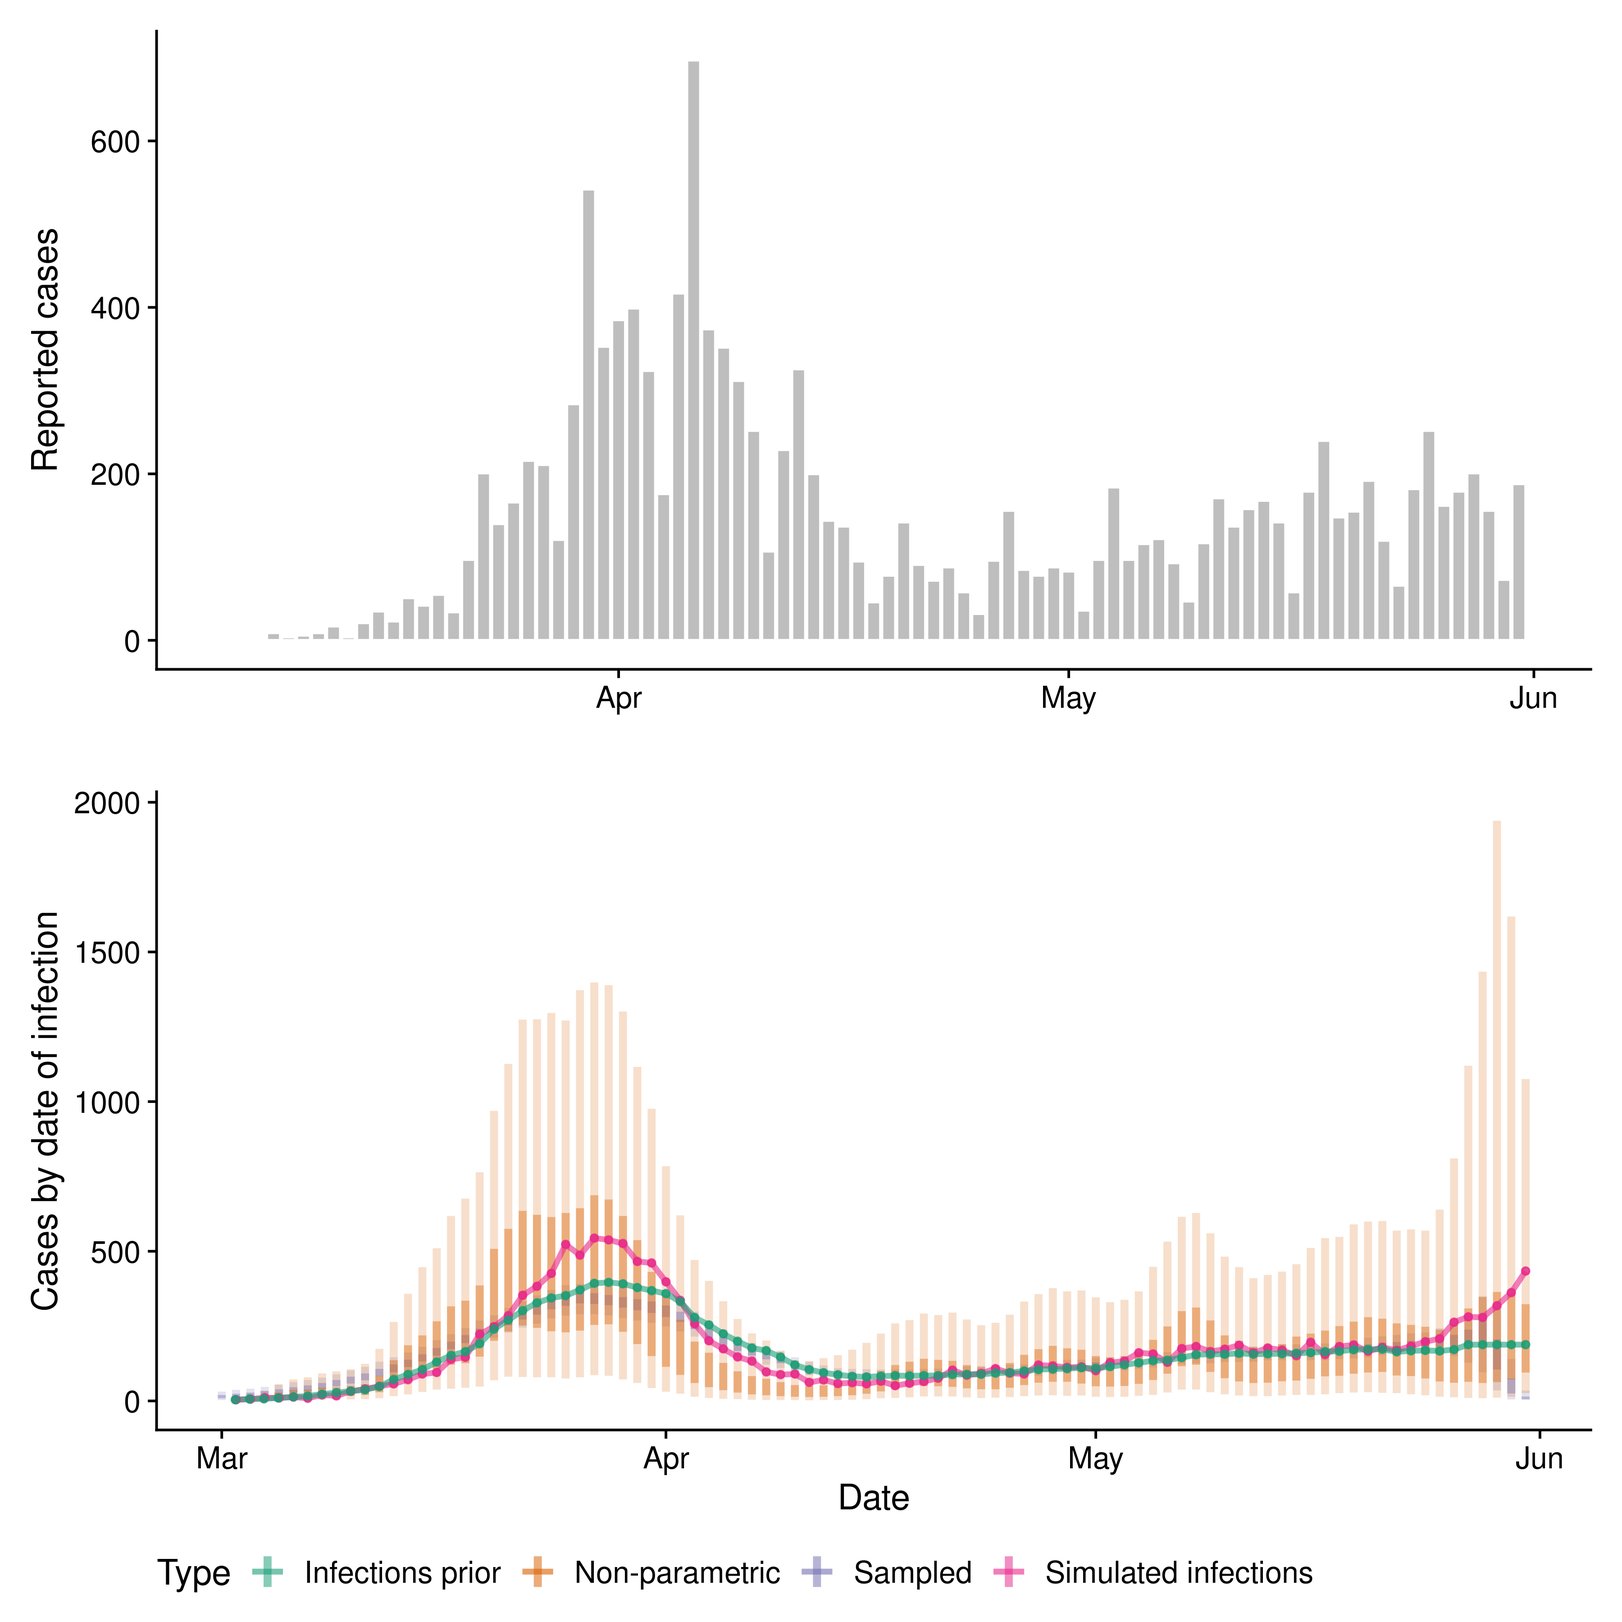
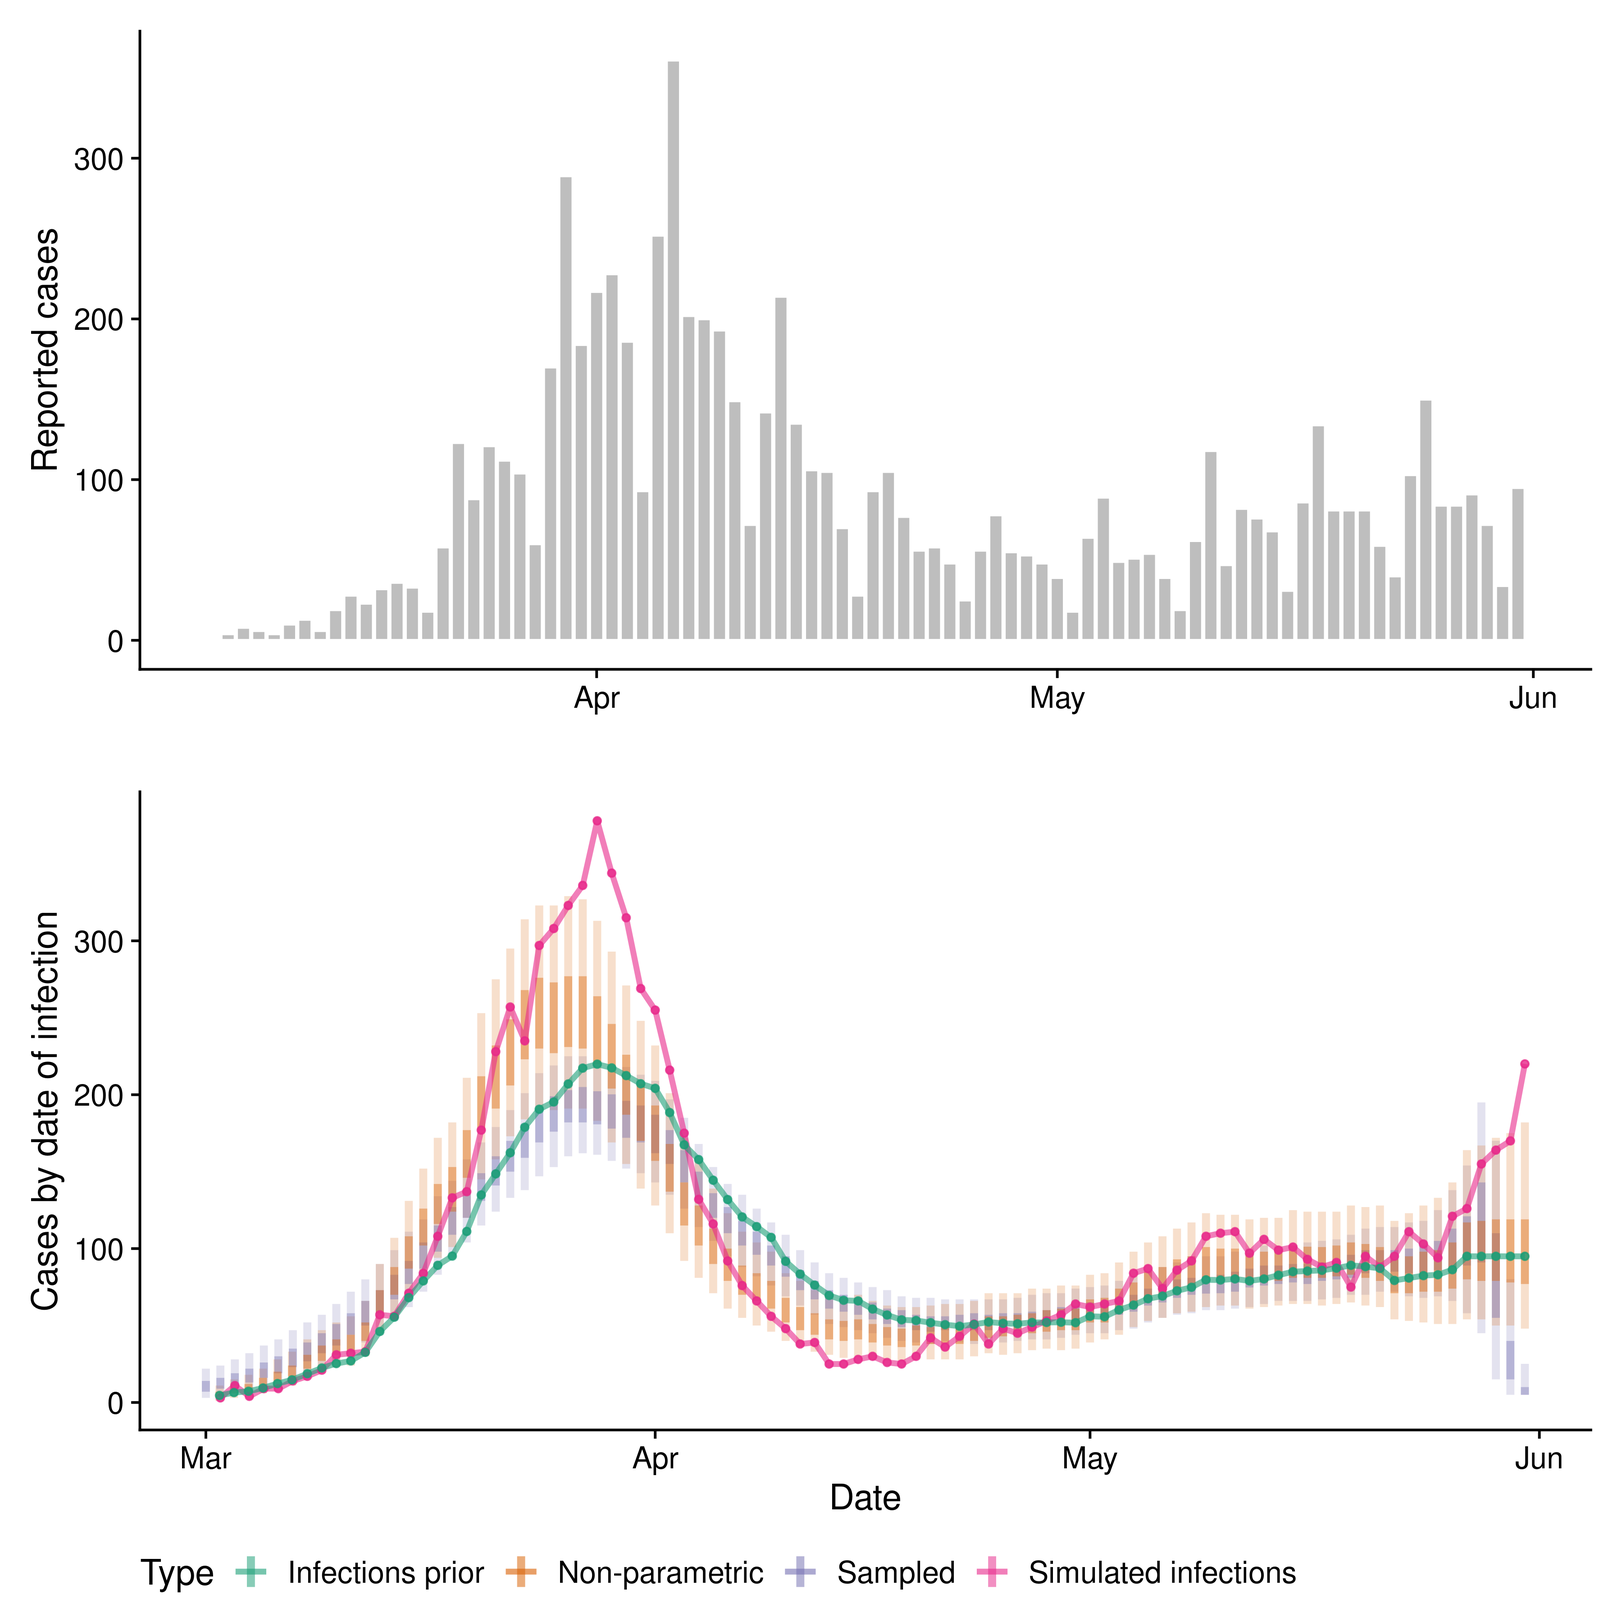
update report

diff --git a/report.md b/report.md
@@ -84,13 +84,7 @@ model
 #>     }
 #>     
 #>    convolved_cases = delay_mat * to_vector(cases);
-#>   
-#>    // initialise all entries as non-zero 
-#>    if (direction) {
-#>     convolved_cases[1] = 0.00001;
-#>    }else{
-#>     convolved_cases[t] =  0.00001; 
-#>    }
+#> 
 #>    return(convolved_cases);
 #>   }
 #> 
@@ -161,38 +155,53 @@ model
 #> transformed data{
 #>   real r_alpha;                      // alpha parameter of the R gamma prior
 #>   real r_beta;                       // beta parameter of the R gamma prior
+#>   real initial_noise_mean;           // initial noise estimate
+#>   real initial_R_mean;               // initial R estimate
 #> 
 #>   // calculate alpha and beta for gamma distribution
 #>   r_alpha = (r_mean / r_sd)^2;
 #>   r_beta = (r_sd^2) / r_mean;
+#>   
+#>   // precalculate parameters for noise
+#>   initial_noise_mean = log(1);
+#>   
+#>   // precalculate parameters for R
+#>   initial_R_mean = log(1);
 #> }
 #> parameters{
-#>   vector<lower = 0>[t] noise;                      // noise on the mean shifted observed cases
-#>   simplex[7] day_of_week_eff_raw;                  // day of week reporting effect + control parameters
-#>   real <lower = 0> inc_mean;                       // mean of incubation period
-#>   real <lower = 0> inc_sd;                         // sd of incubation period
-#>   real <lower = 0> rep_mean;                       // mean of reporting delay
-#>   real <lower = 0> rep_sd;                         // sd of incubation period
-#>   real<lower = 0> rep_phi;                         // overdispersion of the reporting process
-#>   vector<lower = 0>[estimate_r > 0 ? t : 0] R;     // effective reproduction number over time
-#>   real<lower = 0> gt_mean[estimate_r];             // mean of generation time
-#>   real <lower = 0> gt_sd[estimate_r];              // sd of generation time
-#>   real<lower = 0> inf_phi[estimate_r];             // overdispersion of the infection process
+#>   real<lower = 0> initial_noise;                      // initial noise on the mean shifted observed cases
+#>   vector<lower = 0>[t -1] noise_diff;                 // temporal scaling on noise
+#>   simplex[7] day_of_week_eff_raw;                     // day of week reporting effect + control parameters
+#>   real <lower = 0> inc_mean;                          // mean of incubation period
+#>   real <lower = 0> inc_sd;                            // sd of incubation period
+#>   real <lower = 0> rep_mean;                          // mean of reporting delay
+#>   real <lower = 0> rep_sd;                            // sd of incubation period
+#>   real<lower = 0> rep_phi;                            // overdispersion of the reporting process
+#>   vector<lower = 0>[estimate_r] initial_R;            // initial reproduction number
+#>   vector<lower = 0>[estimate_r > 0 ? t -1 : 0] R_diff;// scaling of reproduction number over time
+#>   real<lower = 0> gt_mean[estimate_r];                // mean of generation time
+#>   real <lower = 0> gt_sd[estimate_r];                 // sd of generation time
+#>   real<lower = 0> inf_phi[estimate_r];                // overdispersion of the infection process
 #> }
 #> 
 #> transformed parameters {
-#>   vector[max_rep] rev_delay;                              // reversed report delay pdf
-#>   vector[max_inc] rev_incubation;                         // reversed incubation period pdf
+#>   // stored transformed parameters
+#>   vector<lower = 0>[t] noise;                             // noise on the mean shifted observed cases
 #>   vector<lower = 0>[t] infections;                        // infections over time
-#>   vector<lower = 0>[t] onsets;                            // onsets over time
 #>   vector<lower = 0>[t] reports;                           // reports over time
 #>   vector[7] day_of_week_eff;                              // day of the week effect
+#>   vector<lower = 0>[estimate_r > 0 ? t : 0] R;            // reproduction number over time
+#>   vector[estimate_r > 0 ? t : 0] branch_reports;          // reports generated by the branching process
+#>  {
+#>   // temporary transformed parameters
+#>   vector[max_rep] rev_delay;                              // reversed report delay pdf
+#>   vector[max_inc] rev_incubation;                         // reversed incubation period pdf
+#>   vector[t] onsets;                                       // onsets over time
 #>   vector[estimate_r > 0 ? max_gt : 0] rev_generation_time;// reversed generation time pdf
 #>   vector[estimate_r > 0 ? t : 0] infectiousness;          // infections over time
-#>   vector[estimate_r > 0 ? t : 0] branch_infections;       // infections generated by the branching process
 #>   vector[estimate_r > 0 ? t : 0] branch_onsets;           // onsets generated by the branching process
-#>   vector[estimate_r > 0 ? t : 0] branch_reports;          // reports generated by the branching process
-#> 
+#>   vector[estimate_r > 0 ? t : 0] branch_infections;       // infections generated by the branching process
+#>   
 #>   // reverse the distributions to allow vectorised access
 #>   for (j in 1:max_inc) {
 #>     rev_incubation[j] =
@@ -207,6 +216,12 @@ model
 #>   // define day of the week effect
 #>   day_of_week_eff = 7 * day_of_week_eff_raw;
 #> 
+#>   // walk over noise terms
+#>   noise[1] = initial_noise;
+#>   for (s in 2:t) {
+#>     noise[s] = noise[s - 1] * noise_diff[s - 1];
+#>   }
+#>   
 #>   // generate infections from backcalculated and non-parameteric noise
 #>   for (s in 1:t) {
 #>     infections[s] = shifted_cases[s] * noise[s];
@@ -236,20 +251,27 @@ model
 #>      // infectiousness from infections
 #>      infectiousness = convolve(infections, rev_generation_time, 1);
 #>   
+#>      // reproduction number is a scaling of previous timestep
+#>      R[1] = initial_R[estimate_r];
+#>      for (s in 2:t) {
+#>        R[s] = R[s - 1] * R_diff[s - 1];
+#>      }
+#>      
 #>      // Estimate infections using branching process
 #>      branch_infections = R .* infectiousness;
 #>      
 #>      // onsets from infections
 #>      branch_onsets = convolve(branch_infections, rev_incubation, 1);
-#>   
+#> 
 #>      // reports from onsets
 #>      branch_reports = convolve(branch_onsets, rev_delay, 1);
-#>   
+#> 
 #>      for (s in 1:t) {
 #>       // add reporting effects (adjust for simplex scale)
 #>       branch_reports[s] *= day_of_week_eff[day_of_week[s]];
 #>     }
 #>   }
+#>  }
 #> }
 #> 
 #> model {
@@ -257,11 +279,8 @@ model
 #>   rep_phi ~ exponential(1);
 #> 
 #>   // noise on median shift
-#>   noise[t] ~ lognormal(log(1), 1);
-#>   
-#>   for (i in 1:(t - 1)) {
-#>     noise[t - i] ~ lognormal(log(noise[t - i + 1]), 1);
-#>   }
+#>   initial_noise ~ lognormal(initial_noise_mean, 0.1);
+#>   noise_diff ~ lognormal(initial_noise_mean, 0.1);
 #> 
 #>   // daily cases given reports
 #>   if (model_type == 1) {
@@ -277,28 +296,16 @@ model
 #>   target += normal_lpdf(rep_sd | rep_sd_mean, rep_sd_sd) * t;
 #>   
 #>   ////////////////////////////////////////////////////// 
-#>   // estimtate reproduction no from a branching process
+#>   // estimate reproduction no from a branching process
 #>   //////////////////////////////////////////////////////
 #>   if (estimate_r) {
 #>     
 #>     // infection overdispersion
 #>     inf_phi ~ exponential(1);
-#>      
+#> 
 #>     // initial prior on R
-#>     R[1] ~ gamma(r_alpha, r_beta);
-#>     
-#>    for (s in 2:t) {
-#>      {
-#>        // rescale previous R and overall sd prior for gamma
-#>        real r_mean_ = R[s - 1];
-#>        // assumption here is that todays R is like yesterdays
-#>        real r_sd_ = 1;
-#>        real r_alpha_ = (r_mean_ / r_sd_)^2;
-#>        real r_beta_ = (r_sd_^2) / r_mean_;
-#>        // reproduction number prior dependent on previous time step estimate
-#>        R[s] ~ gamma(r_alpha_, r_beta_);
-#>        }
-#>      }
+#>     initial_R ~ gamma(r_alpha, r_beta);
+#>     R_diff ~ lognormal(initial_R_mean, 1);
 #>      
 #>     // penalised_prior on generation interval
 #>     target += normal_lpdf(gt_mean | gt_mean_mean, gt_mean_sd) * t;
@@ -411,17 +418,17 @@ simulated_cases <- EpiNow::simulate_cases(rts, initial_cases = 10 , initial_date
                                           reporting_effect = c(1.6, 1, 1, 1, 0.8, 0.4, 1))
 simulated_cases
 #>            date cases reference
-#>   1: 2020-03-02     4 infection
-#>   2: 2020-03-03     6 infection
-#>   3: 2020-03-04    11 infection
-#>   4: 2020-03-05    10 infection
-#>   5: 2020-03-06    13 infection
+#>   1: 2020-03-02     3 infection
+#>   2: 2020-03-03    11 infection
+#>   3: 2020-03-04     4 infection
+#>   4: 2020-03-05     9 infection
+#>   5: 2020-03-06     9 infection
 #>  ---                           
-#> 264: 2020-05-27   179    report
-#> 265: 2020-05-28   201    report
-#> 266: 2020-05-29   156    report
-#> 267: 2020-05-30    73    report
-#> 268: 2020-05-31   188    report
+#> 262: 2020-05-27    84    report
+#> 263: 2020-05-28    91    report
+#> 264: 2020-05-29    72    report
+#> 265: 2020-05-30    34    report
+#> 266: 2020-05-31    95    report
 ```
 
 ### Compare approaches on simulated data
@@ -452,16 +459,7 @@ non_parametric_cases <- nowcast(simulated_reports,
                                 samples = 1000, warmup = 1000,
                                 return_all = TRUE, model = model,
                                 verbose = TRUE)
-#> Running for 2000 samples and 97 time steps
-#> Warning: The largest R-hat is NA, indicating chains have not mixed.
-#> Running the chains for more iterations may help. See
-#> http://mc-stan.org/misc/warnings.html#r-hat
-#> Warning: Bulk Effective Samples Size (ESS) is too low, indicating posterior means and medians may be unreliable.
-#> Running the chains for more iterations may help. See
-#> http://mc-stan.org/misc/warnings.html#bulk-ess
-#> Warning: Tail Effective Samples Size (ESS) is too low, indicating posterior variances and tail quantiles may be unreliable.
-#> Running the chains for more iterations may help. See
-#> http://mc-stan.org/misc/warnings.html#tail-ess
+#> Running for 2000 samples and 95 time steps
 ```
 
 ### Compare approaches on reported Covid-19 cases in Austria, the United Kingdom, United States of America and Russia
@@ -531,24 +529,6 @@ results <- lapply(countries,
 #> Warning: Tail Effective Samples Size (ESS) is too low, indicating posterior variances and tail quantiles may be unreliable.
 #> Running the chains for more iterations may help. See
 #> http://mc-stan.org/misc/warnings.html#tail-ess
-#> Warning: The largest R-hat is NA, indicating chains have not mixed.
-#> Running the chains for more iterations may help. See
-#> http://mc-stan.org/misc/warnings.html#r-hat
-#> Warning: Bulk Effective Samples Size (ESS) is too low, indicating posterior means and medians may be unreliable.
-#> Running the chains for more iterations may help. See
-#> http://mc-stan.org/misc/warnings.html#bulk-ess
-#> Warning: Tail Effective Samples Size (ESS) is too low, indicating posterior variances and tail quantiles may be unreliable.
-#> Running the chains for more iterations may help. See
-#> http://mc-stan.org/misc/warnings.html#tail-ess
-#> Warning: The largest R-hat is NA, indicating chains have not mixed.
-#> Running the chains for more iterations may help. See
-#> http://mc-stan.org/misc/warnings.html#r-hat
-#> Warning: Bulk Effective Samples Size (ESS) is too low, indicating posterior means and medians may be unreliable.
-#> Running the chains for more iterations may help. See
-#> http://mc-stan.org/misc/warnings.html#bulk-ess
-#> Warning: Tail Effective Samples Size (ESS) is too low, indicating posterior variances and tail quantiles may be unreliable.
-#> Running the chains for more iterations may help. See
-#> http://mc-stan.org/misc/warnings.html#tail-ess
 
 names(results) <- countries
 ```
@@ -563,14 +543,14 @@ names(results) <- countries
 
 ``` r
 non_parametric_cases$day_of_week[, as.list(summary(value)), by = "wday"]
-#>         wday      Min.   1st Qu.    Median      Mean   3rd Qu.     Max.
-#> 1:    Monday 1.3611266 1.5828189 1.6481956 1.6514290 1.7151463 2.008016
-#> 2:   Tuesday 0.7692103 0.9421065 0.9850502 0.9881888 1.0312445 1.239239
-#> 3: Wednesday 0.7854300 0.9700624 1.0133629 1.0155557 1.0592404 1.284317
-#> 4:  Thursday 0.8344116 1.0086970 1.0544708 1.0573071 1.1035836 1.373536
-#> 5:    Friday 0.6858205 0.8236653 0.8620007 0.8650337 0.9027402 1.091058
-#> 6:  Saturday 0.3028307 0.3862716 0.4073741 0.4084839 0.4282811 0.547727
-#> 7:    Sunday 0.7897653 0.9690890 1.0113243 1.0140019 1.0559600 1.270879
+#>         wday      Min.   1st Qu.    Median      Mean   3rd Qu.      Max.
+#> 1:    Monday 1.3369202 1.5842655 1.6453327 1.6480013 1.7101078 1.9757299
+#> 2:   Tuesday 0.7833156 0.9468587 0.9916598 0.9939709 1.0384850 1.2884126
+#> 3: Wednesday 0.7946190 0.9759884 1.0210021 1.0214155 1.0644876 1.2717640
+#> 4:  Thursday 0.7892070 0.9684665 1.0150213 1.0170034 1.0627604 1.2888899
+#> 5:    Friday 0.6017638 0.7742097 0.8112007 0.8132337 0.8488045 1.0892138
+#> 6:  Saturday 0.2945963 0.3830878 0.4038710 0.4047661 0.4252494 0.5432345
+#> 7:    Sunday 0.8623446 1.0545449 1.1000493 1.1016090 1.1469431 1.4129305
 ```
 
   - Recover reporting delays
@@ -583,8 +563,8 @@ data.table::rbindlist(list(
   non_parametric_cases$rep_sd[, .(parameter = "sd", mean = mean(value), sd = sd(value))]
 ))
 #>    parameter      mean          sd
-#> 1:      mean 1.6103262 0.009755369
-#> 2:        sd 0.6963983 0.018674345
+#> 1:      mean 1.6085694 0.009863083
+#> 2:        sd 0.6912171 0.018261529
 ```
 
   - Recover incubation period
@@ -597,8 +577,8 @@ data.table::rbindlist(list(
   non_parametric_cases$inc_sd[, .(parameter = "sd", mean = mean(value), sd = sd(value))]
 ))
 #>    parameter      mean          sd
-#> 1:      mean 1.6213169 0.006722779
-#> 2:        sd 0.4185493 0.006798494
+#> 1:      mean 1.6206334 0.006736578
+#> 2:        sd 0.4177812 0.007025729
 ```
 
   - Prepare data for
@@ -696,44 +676,44 @@ country
 ``` r
 purrr::map(results, ~ .[[2]]$day_of_week[, as.list(summary(value)), by = "wday"])
 #> $Austria
-#>         wday      Min.   1st Qu.    Median      Mean  3rd Qu.     Max.
-#> 1:    Monday 0.4479195 0.6501631 0.7047460 0.7111869 0.764495 1.125352
-#> 2:   Tuesday 0.6496267 0.8880662 0.9594554 0.9662142 1.037062 1.581837
-#> 3: Wednesday 0.6563672 0.9575543 1.0298863 1.0384845 1.113256 1.573896
-#> 4:  Thursday 0.5900467 0.8966493 0.9663523 0.9726026 1.042284 1.464943
-#> 5:    Friday 0.7005769 0.9922427 1.0718010 1.0775333 1.155657 1.589267
-#> 6:  Saturday 0.8088714 1.1491704 1.2386389 1.2444255 1.332354 1.896453
-#> 7:    Sunday 0.6700643 0.9105259 0.9830931 0.9895530 1.061370 1.515645
+#>         wday      Min.   1st Qu.    Median      Mean   3rd Qu.     Max.
+#> 1:    Monday 0.4474820 0.6631649 0.7146622 0.7202167 0.7731108 1.179633
+#> 2:   Tuesday 0.6505533 0.8939427 0.9624841 0.9688629 1.0357200 1.471953
+#> 3: Wednesday 0.6854817 0.9553799 1.0248556 1.0316792 1.1020187 1.501045
+#> 4:  Thursday 0.5919494 0.8892024 0.9588719 0.9645361 1.0328039 1.450184
+#> 5:    Friday 0.7230573 1.0051970 1.0841009 1.0914188 1.1695866 1.742216
+#> 6:  Saturday 0.7411919 1.1439784 1.2245115 1.2308776 1.3110719 1.863528
+#> 7:    Sunday 0.6271439 0.9136233 0.9868094 0.9924087 1.0607644 1.556434
 #> 
 #> $`United Kingdom`
 #>         wday      Min.   1st Qu.    Median      Mean   3rd Qu.     Max.
-#> 1:    Monday 0.6180815 0.9887802 1.0737482 1.0812896 1.1610585 1.654301
-#> 2:   Tuesday 0.5252084 0.7630979 0.8272216 0.8348367 0.8979974 1.360606
-#> 3: Wednesday 0.5894254 0.8406296 0.9088583 0.9157361 0.9832672 1.429158
-#> 4:  Thursday 0.5762916 0.8569402 0.9315246 0.9384186 1.0123839 1.519049
-#> 5:    Friday 0.6798035 0.9506584 1.0299956 1.0386831 1.1169718 1.755429
-#> 6:  Saturday 0.6530956 0.9773574 1.0556993 1.0641344 1.1414120 1.688887
-#> 7:    Sunday 0.7499531 1.0390920 1.1197400 1.1269014 1.2062809 1.713909
+#> 1:    Monday 0.6803021 0.9866439 1.0602794 1.0700432 1.1477666 1.614187
+#> 2:   Tuesday 0.5397602 0.7555265 0.8198134 0.8256660 0.8883956 1.251244
+#> 3: Wednesday 0.5843771 0.8475234 0.9107135 0.9163452 0.9797718 1.438202
+#> 4:  Thursday 0.6126897 0.8800352 0.9487254 0.9563363 1.0242356 1.462174
+#> 5:    Friday 0.6456273 0.9552996 1.0288896 1.0373393 1.1115975 1.608127
+#> 6:  Saturday 0.7163423 0.9896360 1.0652397 1.0705833 1.1459189 1.612740
+#> 7:    Sunday 0.7503461 1.0391432 1.1163386 1.1236868 1.2011017 1.739417
 #> 
 #> $`United States of America`
 #>         wday      Min.   1st Qu.    Median      Mean   3rd Qu.     Max.
-#> 1:    Monday 0.7109463 0.8713341 0.9100616 0.9125065 0.9522125 1.189307
-#> 2:   Tuesday 0.7405516 0.8976904 0.9377828 0.9415183 0.9815231 1.255100
-#> 3: Wednesday 0.7223999 0.8813824 0.9200326 0.9217103 0.9602983 1.272710
-#> 4:  Thursday 0.7396768 0.9057841 0.9478520 0.9505136 0.9918946 1.268436
-#> 5:    Friday 0.8171076 1.0146867 1.0586902 1.0610727 1.1060403 1.340387
-#> 6:  Saturday 0.9148789 1.0961941 1.1458759 1.1489657 1.1981775 1.421255
-#> 7:    Sunday 0.8042956 1.0172628 1.0616759 1.0637128 1.1083762 1.309462
+#> 1:    Monday 0.7181750 0.8667127 0.9015733 0.9043926 0.9387885 1.121429
+#> 2:   Tuesday 0.7471251 0.9022849 0.9405729 0.9430080 0.9817950 1.222220
+#> 3: Wednesday 0.7366916 0.8856148 0.9222540 0.9237178 0.9607083 1.142122
+#> 4:  Thursday 0.7526877 0.9129092 0.9513193 0.9530592 0.9907638 1.221722
+#> 5:    Friday 0.8181803 1.0210160 1.0649151 1.0660029 1.1098669 1.299057
+#> 6:  Saturday 0.9306471 1.0996984 1.1455769 1.1483541 1.1938481 1.427301
+#> 7:    Sunday 0.8471759 1.0185457 1.0596267 1.0614653 1.1033324 1.349784
 #> 
 #> $Russia
-#>         wday      Min.   1st Qu.    Median      Mean   3rd Qu.     Max.
-#> 1:    Monday 0.5258077 0.8597497 0.9640223 0.9777831 1.0791462 1.817290
-#> 2:   Tuesday 0.4612740 0.8689382 0.9743623 0.9897706 1.0968608 2.087428
-#> 3: Wednesday 0.3928461 0.7379692 0.8328416 0.8438708 0.9350971 1.578567
-#> 4:  Thursday 0.5056510 0.9295912 1.0395068 1.0578440 1.1703356 1.986782
-#> 5:    Friday 0.5133473 0.8674740 0.9697928 0.9824318 1.0807255 1.773888
-#> 6:  Saturday 0.6013941 1.0681961 1.1938826 1.2150979 1.3448280 2.246968
-#> 7:    Sunday 0.4535247 0.8226711 0.9207583 0.9332018 1.0296426 1.853351
+#>         wday      Min.   1st Qu.    Median      Mean  3rd Qu.     Max.
+#> 1:    Monday 0.5183437 0.8709702 0.9679553 0.9795657 1.078561 1.772725
+#> 2:   Tuesday 0.5201567 0.8882500 0.9844886 0.9976446 1.094518 2.164709
+#> 3: Wednesday 0.4255412 0.7501975 0.8372231 0.8472063 0.930315 1.497372
+#> 4:  Thursday 0.5042368 0.9297654 1.0317847 1.0450098 1.146285 1.926877
+#> 5:    Friday 0.5088176 0.8833093 0.9808813 0.9935107 1.088519 1.769715
+#> 6:  Saturday 0.6258507 1.0612630 1.1793020 1.1976038 1.315299 2.178119
+#> 7:    Sunday 0.4967375 0.8337423 0.9262764 0.9394591 1.032438 1.753042
 ```
 
   - Prepare data for
